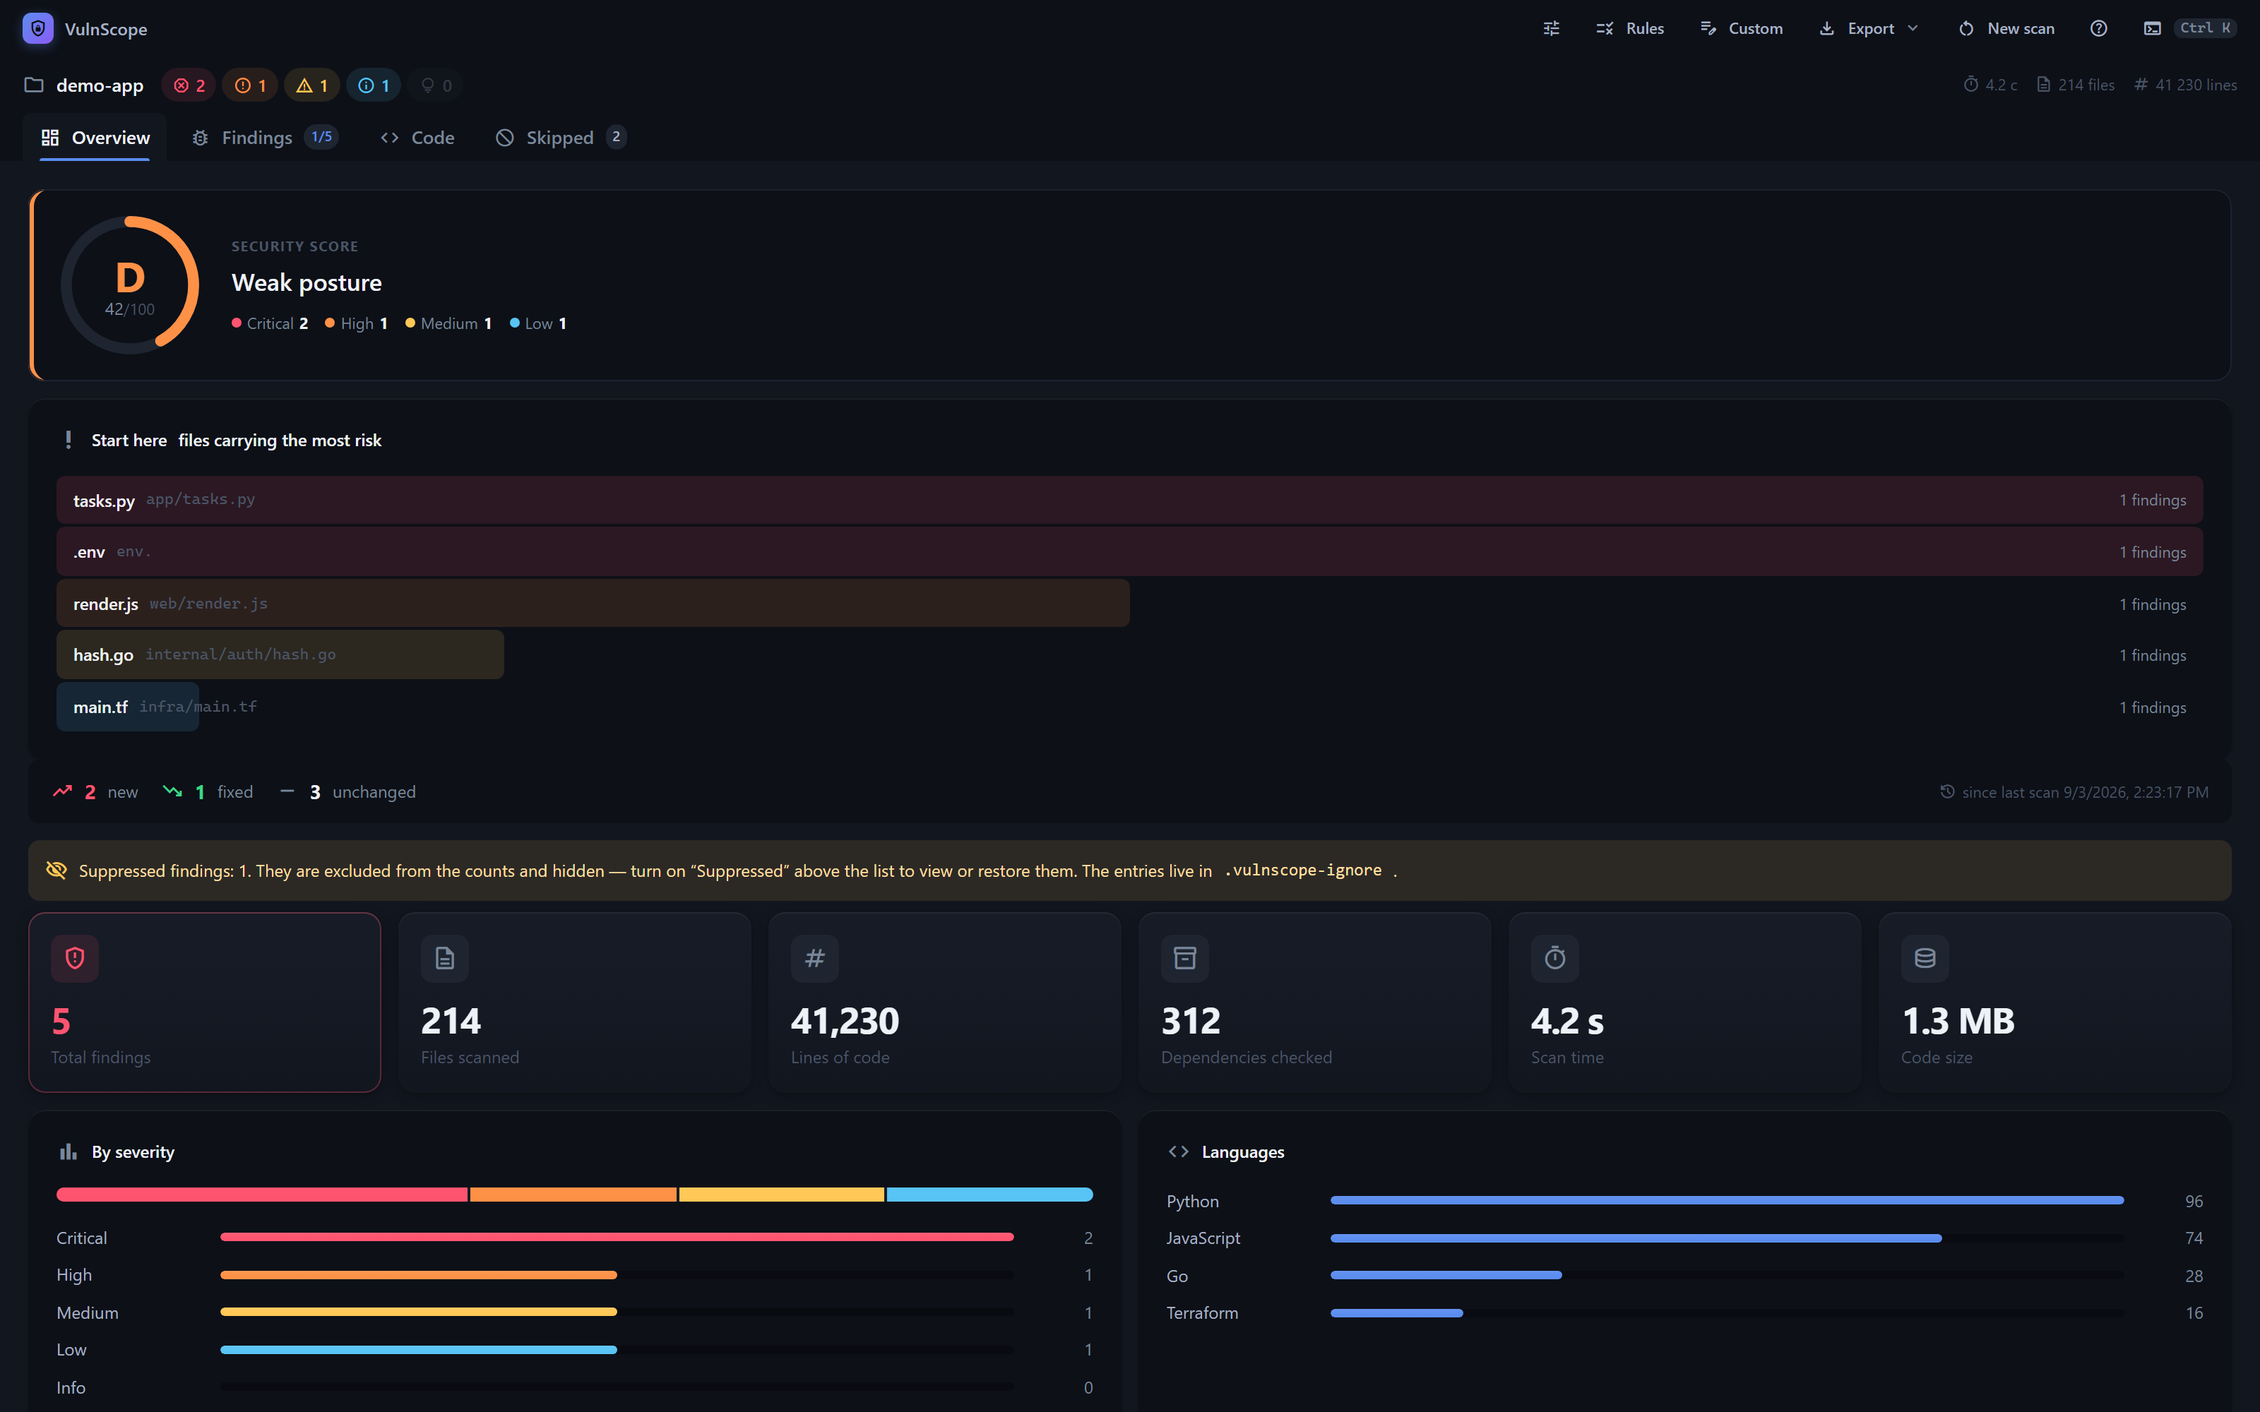
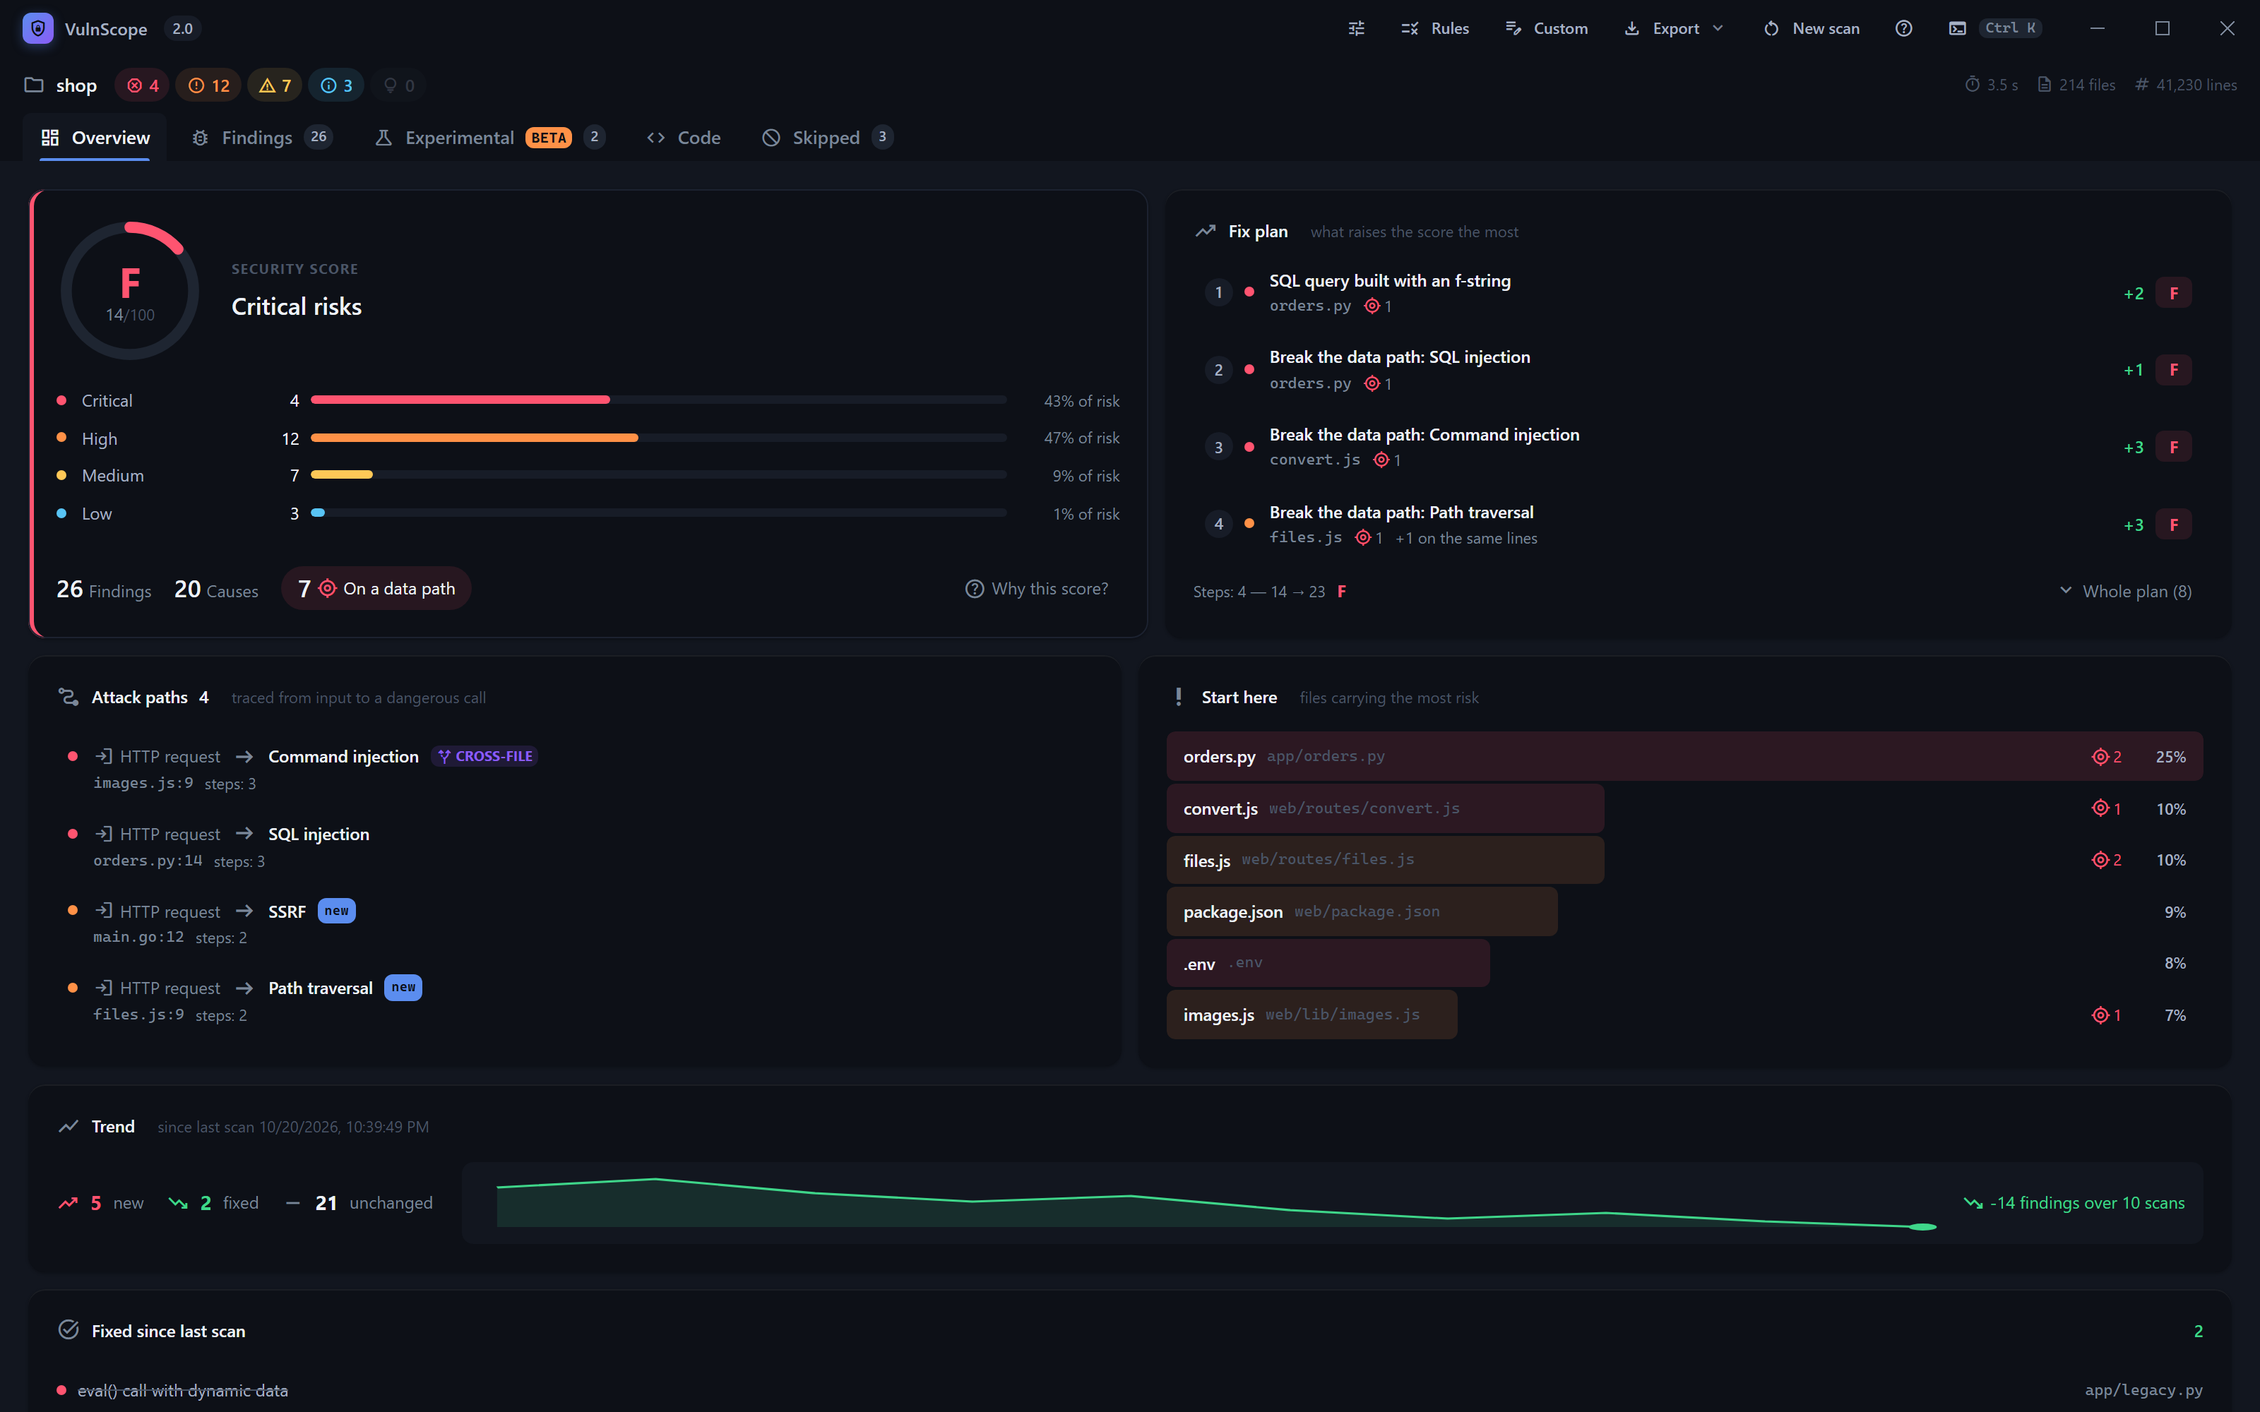
README и скриншоты 2.0; доли риска прямо в карточке оценки
Карточка оценки рядом с планом исправлений растягивалась до его высоты и
оставляла пустое поле. Теперь это место занимают строки по уровням с
долей риска каждого — то, что раньше пряталось за «Почему такая оценка?»
и заменяет и легенду, и полосу количеств, которые говорили то же самое
хуже. За кнопкой остались пояснения: скидка за повторы, множители,
предел.

Скриншоты в README сняты заново: старые показывали «env.», «1/5» и
дашборд 1.x. Демо-проект теперь отдаёт находки в том же порядке, что
сканер, — худшие первыми.

README на обоих языках: движок читает операторы, функции во всех
языках, параметры фреймворков; оценка 2.0 с пределами, причинами,
объяснением и планом; режим «только изменения»; свёрнутые повторы;
симулятор бэкенда для разработки в браузере. В таблице клавиш вкладок
пять, а не четыре, — вкладка BETA появилась ещё в 1.x.

diff --git a/src/Overview.tsx b/src/Overview.tsx
@@ -161,28 +161,21 @@ function ScoreCard({
 
       {score.total > 0 && (
         <>
-          <div
-            className="sev-split"
-            role="img"
-            aria-label={score.factors.map((f) => `${t(SEVERITY_LABEL[f.severity])}: ${f.count}`).join(", ")}
-          >
-            {score.factors.map((f) => (
-              <span
-                key={f.severity}
-                className={`sev-split-seg ${f.severity}`}
-                style={{ flexGrow: f.count }}
-                title={`${t(SEVERITY_LABEL[f.severity])}: ${f.count}`}
-              />
-            ))}
-          </div>
-          <div className="sc-legend">
-            {score.factors.map((f) => (
-              <span key={f.severity} className="sc-legend-item">
-                <span className={`sev-dot ${f.severity}`} />
-                {t(SEVERITY_LABEL[f.severity])}
-                <b>{f.count}</b>
-              </span>
-            ))}
+          <div className="sw-factors">
+            {score.factors.map((f) => {
+              const share = Math.round((f.penalty / load) * 100);
+              return (
+                <div key={f.severity} className="sw-factor">
+                  <span className={`sev-dot ${f.severity}`} />
+                  <span className="sw-label">{t(SEVERITY_LABEL[f.severity])}</span>
+                  <span className="sw-count">{f.count}</span>
+                  <span className="sw-bar">
+                    <span className={`sw-fill ${f.severity}`} style={{ width: `${Math.max(2, share)}%` }} />
+                  </span>
+                  <span className="sw-share">{t("{n}% риска", { n: share })}</span>
+                </div>
+              );
+            })}
           </div>
           <div className="sc-stats">
             <span className="sc-stat">
@@ -219,22 +212,6 @@ function ScoreCard({
 
       {why && (
         <div className="score-why">
-          <div className="sw-factors">
-            {score.factors.map((f) => {
-              const share = Math.round((f.penalty / load) * 100);
-              return (
-                <div key={f.severity} className="sw-factor">
-                  <span className={`sev-dot ${f.severity}`} />
-                  <span className="sw-label">{t(SEVERITY_LABEL[f.severity])}</span>
-                  <span className="sw-count">{f.count}</span>
-                  <span className="sw-bar">
-                    <span className={`sw-fill ${f.severity}`} style={{ width: `${Math.max(2, share)}%` }} />
-                  </span>
-                  <span className="sw-share">{t("{n}% риска", { n: share })}</span>
-                </div>
-              );
-            })}
-          </div>
           <ul className="sw-notes">
             <li>
               {t("Повторы одной причины весят всё меньше — находок: {n}, причин: {c}.", {

diff --git a/src/demo.ts b/src/demo.ts
@@ -944,7 +944,13 @@ export function demoReport(durationMs = 4200): ScanReport {
       newBySeverity: { critical: 1, high: 2, medium: 1 },
     },
     suppressedCount: findings.filter((f) => f.suppressed).length,
-    findings: findings.map((f) => ({ ...f })),
+    // In the order the scanner returns them: worst first, then by place.
+    findings: findings
+      .map((f) => ({ ...f }))
+      .sort(
+        (a, b) =>
+          ORDER.indexOf(a.severity) - ORDER.indexOf(b.severity) || a.file.localeCompare(b.file) || a.line - b.line,
+      ),
     files,
     skipped: [
       { path: "web/node_modules/express/index.js", reason: "vendor", reasonLabel: "Вендор-директория", size: 4200 },

diff --git a/src/App.css b/src/App.css
@@ -3142,23 +3142,6 @@ kbd,
 }
 .score-limit .material-symbols-outlined { font-size: 15px; color: var(--tone); flex-shrink: 0; }
 
-.score-card .sev-split { margin: 0; }
-
-.sc-legend {
-  display: flex;
-  flex-wrap: wrap;
-  gap: var(--sp-1) var(--sp-4);
-  margin-top: calc(var(--sp-2) * -1);
-}
-.sc-legend-item {
-  display: inline-flex;
-  align-items: center;
-  gap: var(--sp-1);
-  color: var(--t-3);
-  font-size: var(--fs-xs);
-}
-.sc-legend-item b { color: var(--t-1); font-variant-numeric: tabular-nums; }
-
 /* The stats row sits at the bottom when the card is stretched beside the plan. */
 .score-card .sc-stats { margin-top: auto; }
 

diff --git a/README.md b/README.md
@@ -14,7 +14,7 @@ and CVE lookup — for local projects and public repositories.
 
 *[Русская версия](README.ru.md)*
 
-<img src="docs/images/01-dashboard.png" alt="VulnScope dashboard: security score, riskiest files, and scan statistics" width="900">
+<img src="docs/images/01-dashboard.png" alt="VulnScope dashboard: security score with its risk breakdown, the fix plan, attack paths, the riskiest files and the trend" width="900">
 
 </div>
 
@@ -46,8 +46,8 @@ Download the latest installer from the
 
 | File | What it is |
 |---|---|
-| `VulnScope_1.3.0_x64-setup.exe` | NSIS installer — the usual choice |
-| `VulnScope_1.3.0_x64_en-US.msi` | MSI package, for deployment via group policy |
+| `VulnScope_2.0.0_x64-setup.exe` | NSIS installer — the usual choice |
+| `VulnScope_2.0.0_x64_en-US.msi` | MSI package, for deployment via group policy |
 
 Windows 10 or 11, 64-bit. Nothing else to install: WebView2 ships with Windows 11
 and current Windows 10, and VulnScope bundles no runtime of its own.
@@ -67,7 +67,7 @@ info → Run anyway**, or build it yourself from source (see
   - [Rules](#code--274-built-in-rules) · [Data-flow analysis](#data-flow-analysis-the-flagship) · [Compromise indicators](#compromise-indicators) · [Secrets](#secrets--55-detectors) · [Dependencies](#dependencies--cves-via-osvdev) · [External scanners](#external-scanners-optional)
 - [What it doesn't analyze](#what-it-doesnt-analyze)
 - [Working through the results](#working-through-the-results)
-  - [Security score](#security-score) · [While the scan runs](#while-the-scan-runs) · [Comparing scans](#comparing-with-the-last-scan) · [Suppressing](#suppressing-findings) · [Accountability](#accountability)
+  - [Security score](#security-score) · [While the scan runs](#while-the-scan-runs) · [Comparing scans](#comparing-with-the-last-scan) · [Changes only](#checking-only-your-changes-beta) · [Suppressing](#suppressing-findings) · [Accountability](#accountability)
 - [Export](#export)
 - [Interface](#interface) · [Accessibility](#accessibility) · [Language](#language) · [Themes](#themes) · [Settings](#settings)
 - [Development](#development) · [How it works](#how-it-works) · [Accuracy and limits](#accuracy-and-limits)
@@ -135,8 +135,18 @@ that line-by-line rules cannot see, and every finding is self-verifiable: the ex
 route is visible. No AI, no black boxes — the same input always produces the same
 answer.
 
+The engine reads statements, not lines: a query split over three lines, arguments
+in a column and call chains with a leading dot are one statement, and the finding
+still points at the real line. It knows where functions begin and end in Python,
+JavaScript/TypeScript, PHP, Go, Java, C#, Kotlin, Scala, Ruby, Elixir and Perl, so
+one handler's variables never leak into the next. In frameworks where input
+arrives as a parameter rather than through `request` — `@RequestParam` in Spring,
+`[FromQuery]` in ASP.NET, `@Query` in NestJS, `Query()` and route paths in FastAPI
+and Flask — the parameter is the source; a path parameter typed `int` or `uuid`
+is not, since no string fits through it.
+
 <div align="center">
-<img src="docs/images/02-findings.png" alt="Findings list with the file tree, a selected finding, its code, fix, and CWE/OWASP classification" width="900">
+<img src="docs/images/02-findings.png" alt="Findings list with the file tree and a cross-file data flow: source, call, and the sink in another file" width="900">
 </div>
 
 ### Compromise indicators
@@ -231,13 +241,29 @@ dependencies** checkbox turns that off.
 ### Security score
 
 One number for the whole report, on a 0–100 scale with a letter grade. Each finding
-subtracts points weighted by severity and — the part that sets it apart — by
-whether the data-flow engine proved it **reachable** from untrusted input. A
-reachable critical is worse than an isolated one, and the score says so.
+weighs by severity, by the rule's confidence, and — the part that sets it apart —
+by whether the data-flow engine proved it **reachable** from untrusted input.
+
+Findings are grouped by **root cause**: a rule, or one version of a package (every
+advisory against it is fixed by one upgrade). Repeats of a cause still count, but
+less each time — forty MD5 calls are one habit to break, not forty catastrophes.
+And the worst finding sets **honest limits**: without high or critical findings
+the score never reaches F, however many small ones there are; a critical
+vulnerability keeps it at C or below, and one reachable from input at D or below,
+however large and clean the rest of the code is. A limit that applies is named on
+the dashboard.
+
+**Why this score?** opens the arithmetic: each severity's share of the risk, the
+repeat discount, the multipliers, the limit and what the score would be without
+it. Next to the score, the **fix plan** lists the causes whose fixes buy the most
+points, step by step, with the score and grade after each — and a fix clears the
+whole line, so a step also counts other rules' findings on the same lines. Every
+step's number is a promise the score audit checks by recomputing the report
+without those findings. The plan is in the printed report and the exports too.
 
 It is deterministic and fully attributable: the same report always yields the same
-score, and every point traces to a factor shown in the breakdown. The dashboard
-also lists **attack paths** sorted by danger, each opening the finding behind it.
+score. The dashboard also lists **attack paths** sorted by danger, each opening the
+finding behind it.
 
 ### While the scan runs
 
@@ -270,6 +296,16 @@ leaves the fingerprint intact for the same reason.
 
 The first scan of a target says plainly that there is nothing to compare against,
 rather than reporting "0 new".
+
+### Checking only your changes (BETA)
+
+**Changes only** scans the files that differ from the last commit — staged,
+unstaged and new, minus ignored ones — to check an edit before committing it. The
+cross-file data-flow pass still reads the whole project: a flow from your change
+into an unchanged helper is exactly what you need to see. Such a scan is not
+compared with the previous one and not written to the history — otherwise
+everything outside the change would look fixed, and the next full scan would
+report it all as new. Its score is labelled the score of the changes.
 
 ### Suppressing findings
 
@@ -339,6 +375,11 @@ how many findings are hidden and resets the filters in one click: a list emptied
 a filter looks too much like a clean project, so it says so plainly instead of
 showing a green shield.
 
+**Collapse repeats** shows one row per root cause, marked ×N; the finding's detail
+lists the other places, each opening at its line. Every traced data flow is titled
+with what it reaches — "SQL injection · User data reaches a dangerous call" — so
+four flows never read as four identical rows.
+
 The viewer shows the code, but fixing it happens in an editor — so a button next to
 the path reveals the file in the system file manager. Set an editor command in the
 settings (say, `code -g {file}:{line}`) and a second button opens the finding right
@@ -354,7 +395,7 @@ placeholders, not baked into the app.
 | `Ctrl+N` | New scan |
 | `Ctrl+Shift+R` | Re-scan the same target |
 | `Ctrl+S` | Export report |
-| `1`–`4` | Tabs: overview / findings / code / skipped |
+| `1`–`5` | Tabs: overview / findings / experimental / code / skipped |
 | `J`, `K`, `↑`, `↓` | Move between findings |
 | `Enter` | Open the finding in code |
 | `Esc` | Close the palette, catalogue or settings |
@@ -428,7 +469,13 @@ npm run check:all
 ```
 
 That covers a TypeScript typecheck, eight audit scripts, a production build, the
-288 backend tests, and Clippy with warnings denied.
+backend tests, and Clippy with warnings denied.
+
+`npm run dev` opened in a plain browser runs against a simulated backend
+(`src/devbackend.ts`, on Tauri's own IPC mock): setup, a scan with live progress,
+results, the code viewer, edit-and-recheck and settings all work on a demo
+project, so the interface can be built and checked without the Rust side. None of
+it reaches a production build.
 
 Each audit script exists because something shipped broken in a way review did not
 catch — contrast, localization completeness, SARIF shape, score maths, 1C XML
